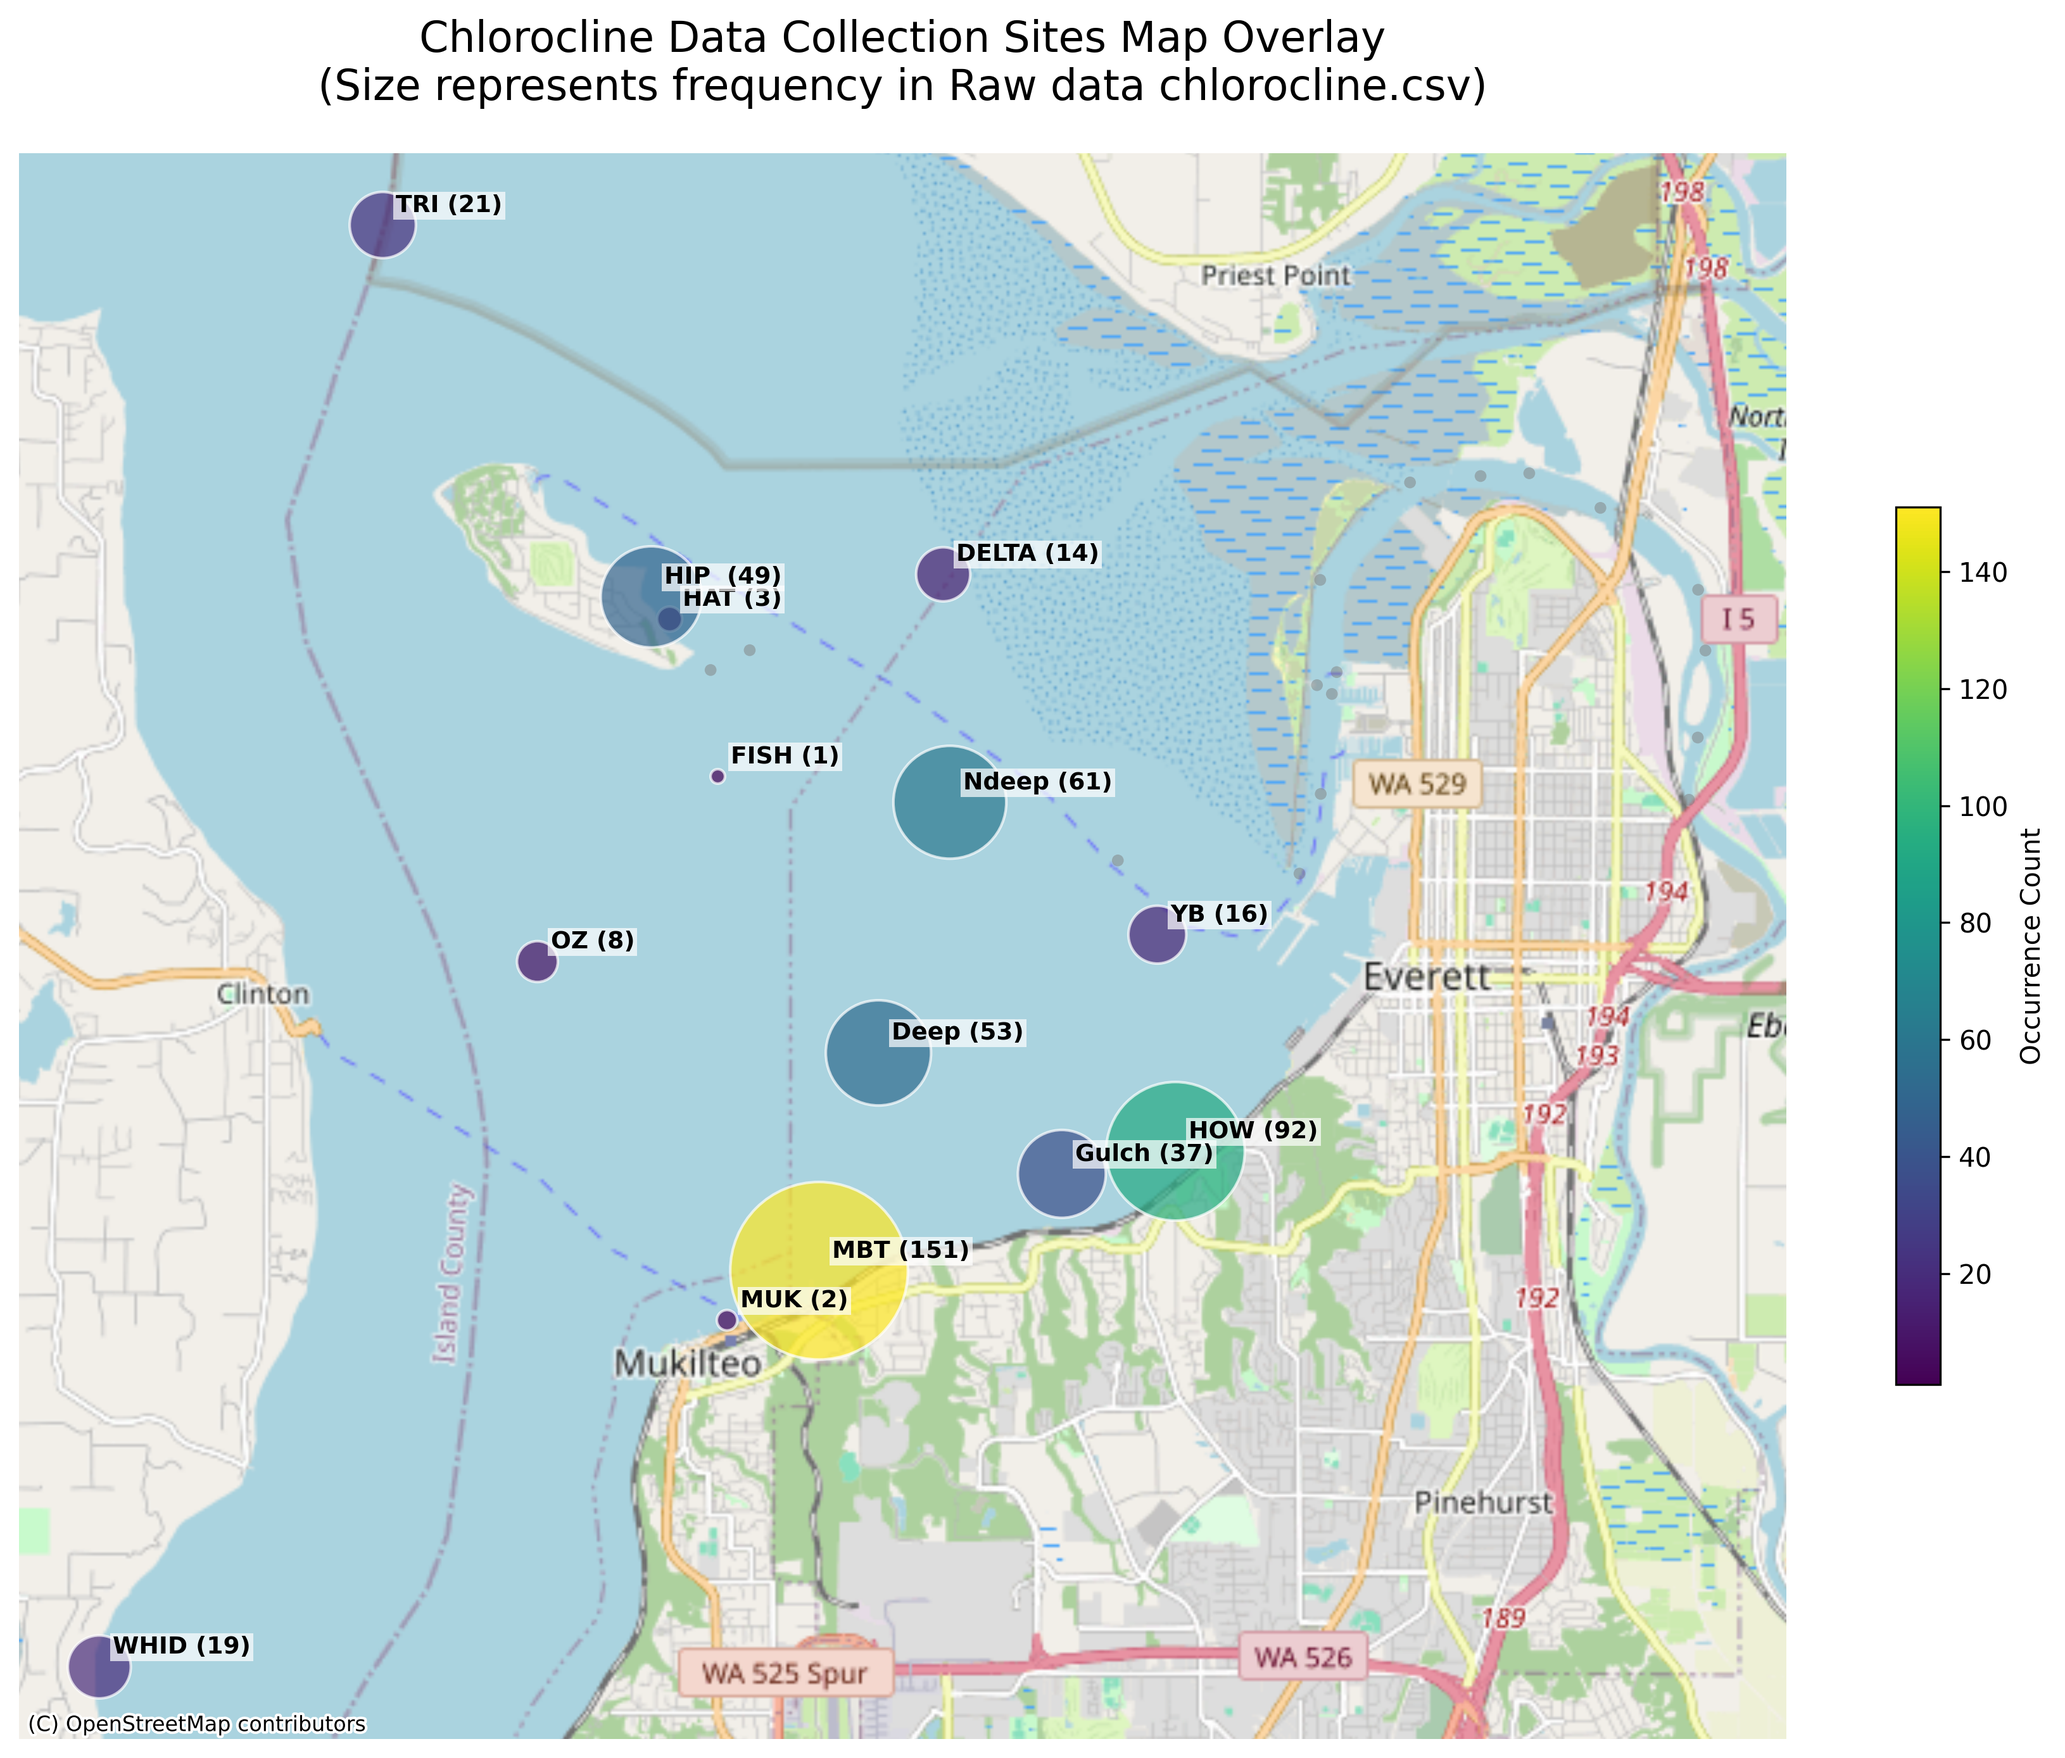
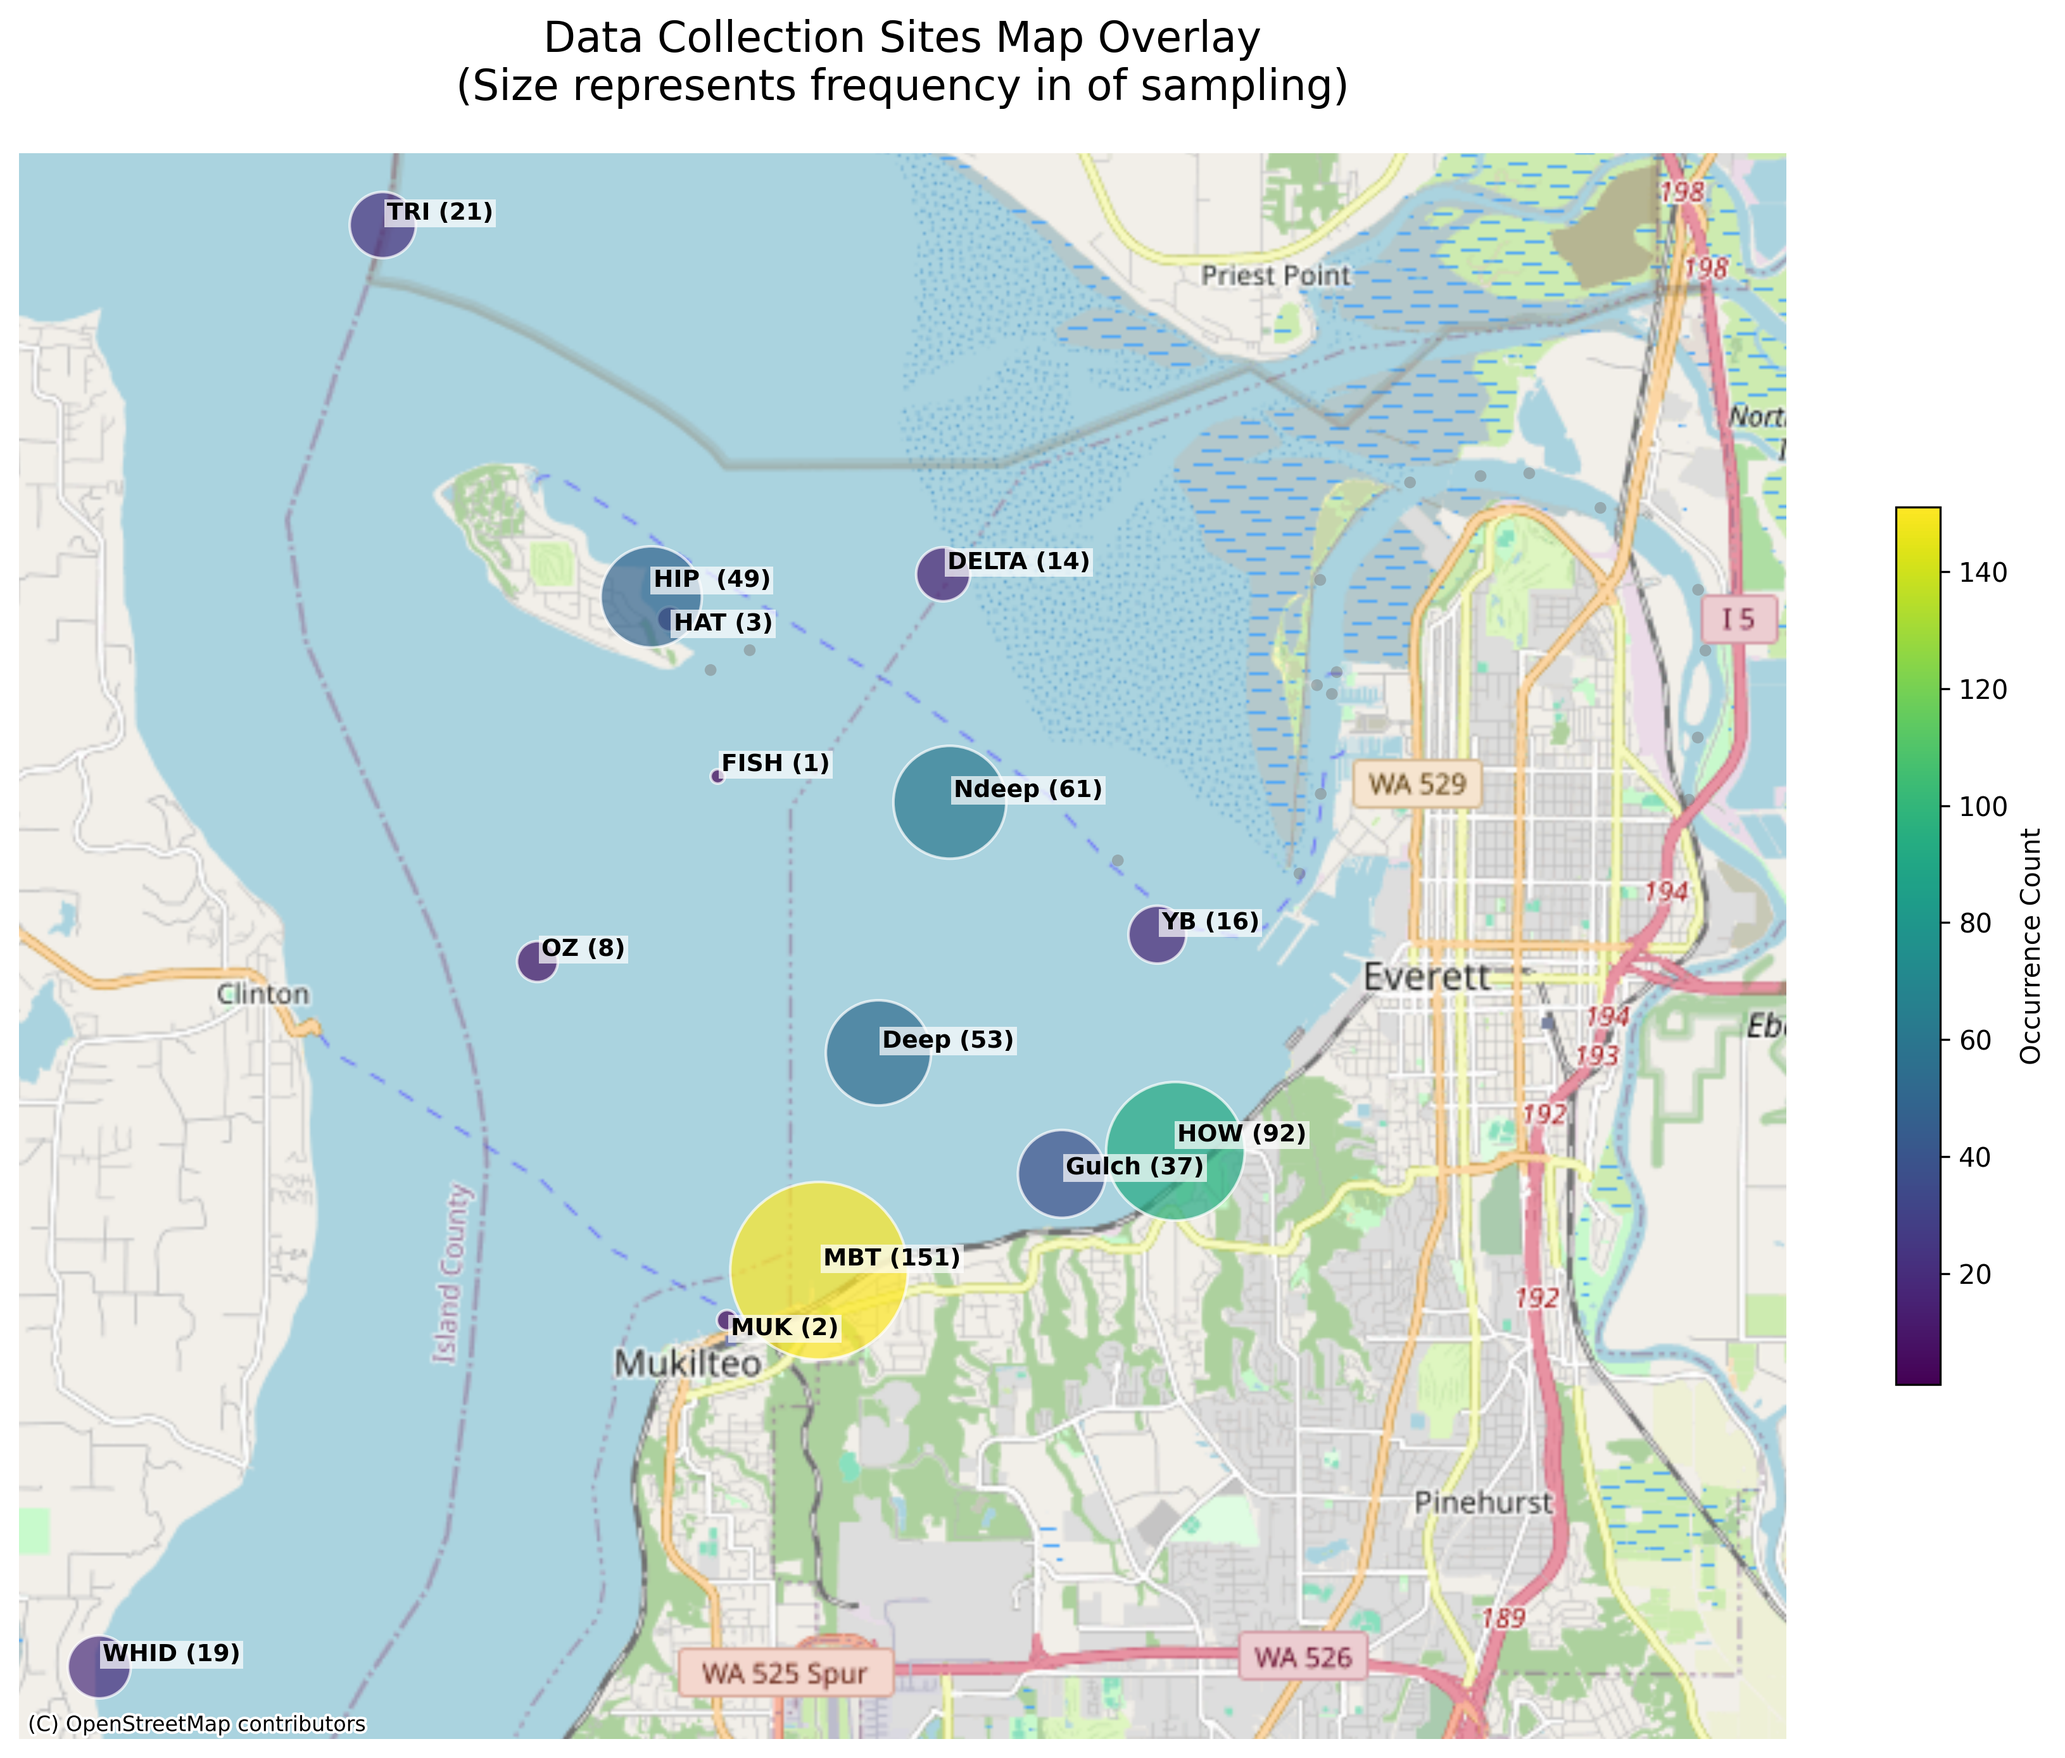
maps

diff --git a/UWURS_Stuff/coordinate_map.py b/UWURS_Stuff/coordinate_map.py
@@ -4,6 +4,7 @@ import os
 import geopandas as gpd
 import contextily as ctx
 from shapely.geometry import Point
+from adjustText import adjust_text
 
 # File paths
 cords_path = os.path.join(os.path.dirname(__file__), 'SOPS_Cords.csv')
@@ -70,23 +71,26 @@ def create_map():
     )
     
     # Add labels for sites with data
+    texts = []
     for x, y, label, count in zip(with_data.geometry.x, with_data.geometry.y, with_data['Site Name'], with_data['Count']):
-        ax.annotate(
+        texts.append(ax.text(
+            x, y,
             f"{label} ({int(count)})", 
-            xy=(x, y),
-            xytext=(5, 5), 
-            textcoords="offset points",
             fontsize=9,
             fontweight='bold',
             bbox=dict(facecolor='white', alpha=0.7, edgecolor='none', pad=1)
-        )
+        ))
+    
+    # Adjust text to prevent overlap
+    if texts:
+        adjust_text(texts, arrowprops=dict(arrowstyle='-', color='black', lw=0.5))
 
     # Add basemap
     # Using OpenStreetMap tiles
     ctx.add_basemap(ax, source=ctx.providers.OpenStreetMap.Mapnik)
     
     ax.set_axis_off()
-    plt.title('Chlorocline Data Collection Sites Map Overlay\n(Size represents frequency in Raw data chlorocline.csv)', fontsize=16, pad=20)
+    plt.title('Data Collection Sites Map Overlay\n(Size represents frequency in of sampling)', fontsize=16, pad=20)
     
     # Save the map
     output_path = os.path.join(os.path.dirname(__file__), 'site_coordinate_map_overlay.png')

diff --git a/Random_Forest_Code.py b/Random_Forest_Code.py
@@ -46,7 +46,7 @@ def remove_outliers(df):
             z = stats.zscore(df_cleaned[col].astype(float))
         except Exception:
             continue
-        outlier_mask = np.abs(z) > 2  # adjust threshold if desired
+        outlier_mask = np.abs(z) > 2.5  # adjust threshold if desired
         df_cleaned = df_cleaned[~outlier_mask]
 
     return df_cleaned
